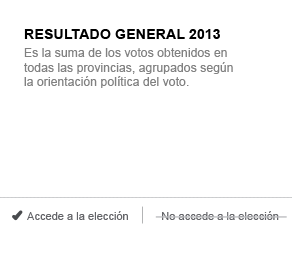
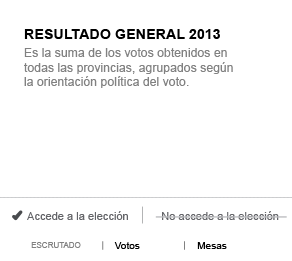
Funcionabilidad barras
ver el css y disparar eventos al cargar.

Changed region(s): [[0.0925, 0.9195, 0.2774, 0.9502], [0.6781, 0.9195, 0.7705, 0.9808], [0.339, 0.9195, 0.4932, 0.9502]]

diff --git a/js/barsFunction.js b/js/barsFunction.js
@@ -78,7 +78,7 @@ elecciones.event.on("click", function(dataE){
 				if (dataE.diputados.id == "TOTALES"){
 					updateTotales(dataE.diputados)
 				}else{
-					updateBars(dataE.diputados);	
+					updateBars(dataE.diputados)	
 				}
 			}
 			break;
@@ -88,12 +88,11 @@ elecciones.event.on("click", function(dataE){
 				if (dataE.senadores.id == "TOTALES"){
 					updateTotales(dataE.senadores)
 				}else{
-					updateBars(dataE.senadores);	
+					updateBars(dataE.senadores)
 				}
 			}
 			break;
 	}
-
 });
 
 function updateTotales(objeto){
@@ -152,13 +151,16 @@ function updateTotales(objeto){
     	.style("left", function (d) { return Math.ceil( dominio(d.votos) + 5) + "px"; })
         .text(function (d) { return "(" + miles(d.votos.toString()) + ")"; });
 
+	d3.select("#votos").text( objeto.votacion.votos.porcentaje + "%" );
+	d3.select("#mesas").text( objeto.votacion.mesas.porcentaje + "%" );
+		
     contenido
     	.exit()
         .remove();
 }
 
 
-function updateBars(objeto){
+function updateBars(objeto){ //Detalladas
 	var maximo = 150;
 		
 	d3.select("#graficoBarras").selectAll("div").remove();
@@ -173,7 +175,10 @@ function updateBars(objeto){
 	
 	
 	if (objeto.nivel_administrativo == 2) {
-		d3.select("#referenciaNombreLocalidad").html( " " + objeto.nombre + "   &#215;").classed("descOculto",false).classed("descMuestro",true);
+		d3.select("#referenciaNombreLocalidad")
+			.html( " " + objeto.nombre )
+			.classed("descOculto",false)
+			.classed("descMuestro",true);
 	}
 		
 	var dominio = d3.scale.linear()
@@ -244,6 +249,7 @@ function updateBars(objeto){
     	.style("left", function (d) { return Math.ceil( dominio(d.votos) + 50) + "px"; })
         .text(function (d) { return "(" + miles(d.votos.toString()) + ")"; });
 
+/*
 	var internaEnter = contenidoEnter.append("div")
     	.classed("tituloInternaDet", function (d){
     			if (d.internas != undefined); return  true; return  false;
@@ -265,7 +271,11 @@ function updateBars(objeto){
 	 		d3.select(this).html("&#9660; Resultados Internas")
 			}
 		);
+	*/
 	
+	d3.select("#votos").text( objeto.votacion.votos.porcentaje + "%" );
+	d3.select("#mesas").text( objeto.votacion.mesas.porcentaje + "%" );
+
     contenido
     	.exit()
         .remove();

diff --git a/css/clnmap.css b/css/clnmap.css
@@ -70,8 +70,8 @@
 }
 
 .fp_SFP { /*Sin Fuerza Política*/
-	fill: #ff9999;
-	background-color: #ff9999;
+	fill: #666666;
+	background-color: #666666;
 }
 
 /**********************************************************************************/
@@ -323,6 +323,24 @@
 	height: 30px;
 	background: url("../img/bgRight.png") no-repeat;
 	background-position: 0 -230px;	
+}
+
+#mesas{
+    color: #990000;
+    font-family: Arial,Helvetica,sans-serif;
+    font-size: 59%;
+    left: 232px;
+    position: relative;
+    top: -3px;
+}
+
+#votos{
+    color: #990000;
+    font-family: Arial,Helvetica,sans-serif;
+    font-size: 59%;
+    left: 146px;
+    position: relative;
+    top: 9px;
 }
 
 .descMuestro {
@@ -746,7 +764,7 @@ circle {
 }
 
 /**********************************************************************************/
-/* Footer                                                              */
+/* Footer                                                                         */
 /**********************************************************************************/
 
 #contenedorApp #footer{

diff --git a/index.html b/index.html
@@ -48,7 +48,10 @@
 						<div id="referenciaNombreLocalidad" class="descOculto"> </div>
 					</div>	
 					<div id="graficoBarras"> </div>	
-					<div id="totalBarras"> </div>	
+					<div id="totalBarras">
+						<div id="votos"> </div>
+						<div id="mesas"> </div>						
+					</div>	
 				</div>
 
 			</div>
